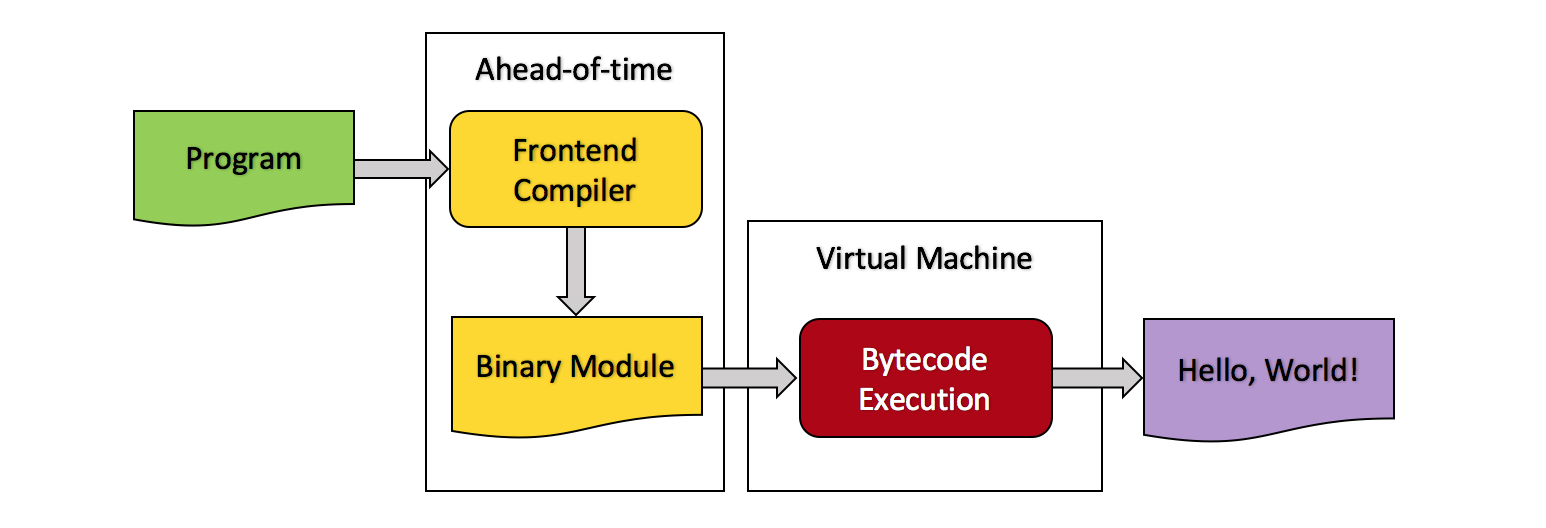
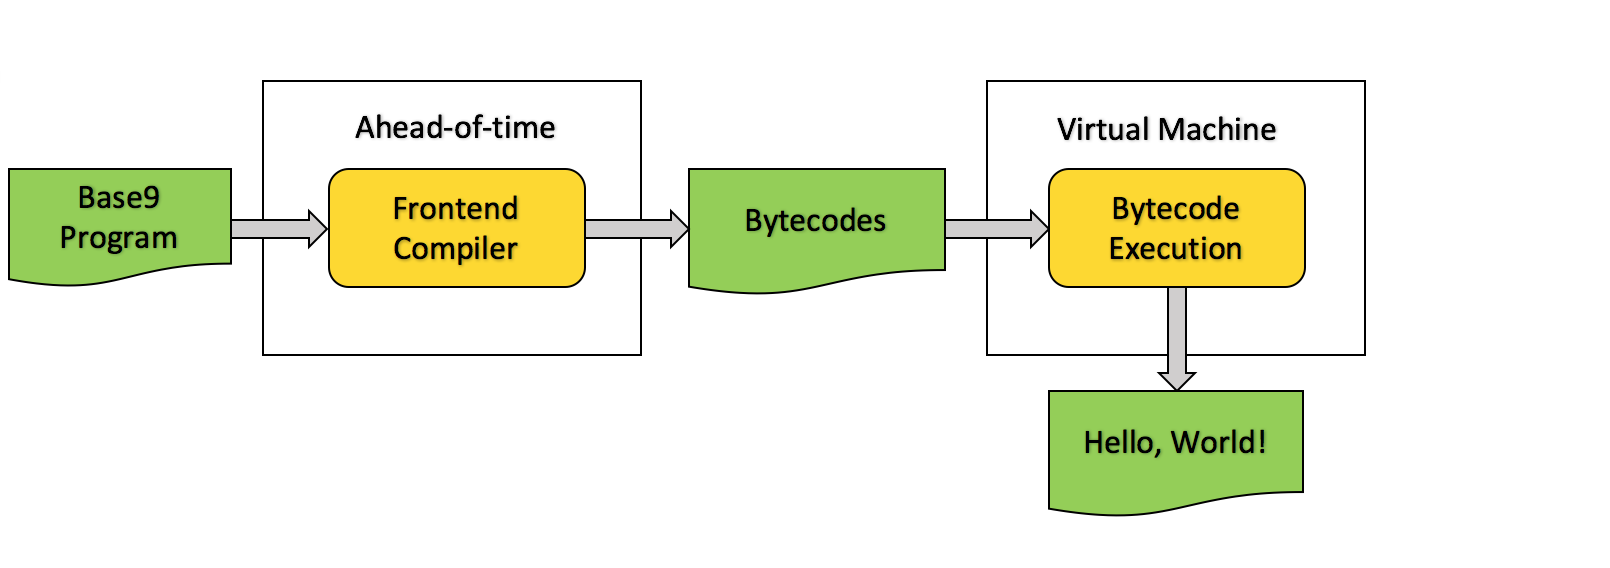
WIP
feedback from tuesday design meeting

diff --git a/docs/BuildARuntime.md b/docs/BuildARuntime.md
@@ -3,6 +3,9 @@ layout: devJourney
 title: Build your own Language Runtime
 ---
 
+* Table of Contents
+{:toc}
+
 ## Intro
 
 Welcome to the tutorial! If you're interested in building your own [language runtime], you've come to the right place. Base9 is a miniature language runtime, and thanks to [OMR] and [JitBuilder], it even has a [Just In Time (JIT) Compiler]! The goal of this tutorial is not to teach you how to build base9, but rather to pack your arsenal full of tools to build your own language runtime. We don't want to bog down the tutorial with information you don't need, so we'll keep things straightfoward, providing useful links/definitions along the way for you to peruse at your own convenience. If you'd like to get familiar with some of the vocabulary you'll encounter, feel free to visit the [tutorial dictionary].
@@ -27,32 +30,28 @@ Before getting started, you should [get yourself setup with base9]. We're going 
 Base9 has several major components that we'll discuss throughout the course of this tutorial. We'll provide insight about design decisions and implementation. Many of the design and implementation decisions were made based on the specific needs of the project. You may wish to deviate from these decisions along the way in order to best suit your own project.
 
 <figure class="image">
-  <figcaption>Base9 Overview</figcaption>
-  <img src="./assets/images/b9overview.png" width="100%"/>
+  <img src="./assets/images/b9architecture.png" width="100%"/>
 </figure>
 
-The above diagram details the two high-level components of the base9 architecture: the [ahead-of-time compilation] (AOT) and the [virtual machine] (VM) units. The AOT unit runs the frontend language through the frontend compiler (the base9 frontend language is a primitive subset of JavaScript). The frontend compiler outputs a binary module which is then passed to the deserializer. Here, the deserialized data is used to make a C++ data structure. That data structure will henceforth be referred to as the in-memory Module. It is named `Module` in the source code.
+The above diagram details the two high-level components of the base9 architecture: the [ahead-of-time compilation] (AOT) and the [virtual machine] (VM) units. The AOT unit runs the frontend language through the frontend compiler (the base9 frontend language is a primitive subset of JavaScript). The frontend compiler outputs the [bytecodes] to be consumed by the VM. The VM (or runtime unit) will either execute tbe bytecodes one by one using the [interpreter], or it can employ the [JIT compiler] to produce optimized native machine code.
 
 [ahead-of-time compilation]: ./Dictionary.md#ahead-of-time-compilation
 [virtual machine]: ./Dictionary.md#virtual-machine
-
-To summarize, the AOT unit is comprised of the frontend compiler, while the VM unit can be further broken down into the [interpreter] and the [JIT]. The in-memory Module is passed to the VM, which runs the [bytecodes] of the program.
-
-[interpreter]: ./Dictionary.md#interpreter
-[JIT]: ./Dictionary.md#jit-compiler
 [bytecodes]: ./Dictionary.md#bytecode
+[interpreter]: ./Dictionary.md#interpreter
+[JIT compiler]: ./Dictionary.md#jit-compiler
 
 ```
 
-```
 
-<center> *** </center>
-
-```
 
 ```
 
 ## Base9 Frontend
+
+<figure class="image">
+  <img src="./assets/images/b9frontend.png" width="100%"/>
+</figure>
 
 ### Frontend Language
 
@@ -97,18 +96,19 @@ The above command will run the frontend compiler on `test/hello.src` and output 
 
 ```
 
-```
 
-<center> *** </center>
-
-```
 
 ```
 
 ## Base9 Backend
 
 <figure class="image">
-  <figcaption>VM Design</figcaption>
+  <img src="./assets/images/b9backend.png" width="100%"/>
+</figure>
+
+Let's explore the VM design in greater detail.
+
+<figure class="image">
   <img src="./assets/images/VMDesign.png" width="100%"/>
 </figure>
 
@@ -264,11 +264,7 @@ Hopefully the pseudocode has convinced you that the interpreter is actually supe
 
 ```
 
-```
 
-<center> *** </center>
-
-```
 
 ```
 
@@ -563,11 +559,7 @@ To conclude this section, let's briefly walk over the components we've covered t
 
 ```
 
-```
 
-<center> *** </center>
-
-```
 
 ```
 
@@ -598,11 +590,7 @@ The above diagram depicts the base9 components in yellow. These are the componen
 
 ```
 
-```
 
-<center> *** </center>
-
-```
 
 ```
 

diff --git a/docs/AboutBase9.md b/docs/AboutBase9.md
@@ -14,29 +14,8 @@ Base9 is an educational [language runtime] and JavaScript [interpreter]. It's fr
 [JIT compiler]: ./Dictionary.md#jit-compiler
 [JitBuilder]: https://developer.ibm.com/open/2016/07/19/jitbuilder-library-and-eclipse-omr-just-in-time-compilers-made-easy/
 
-<figure class="image">
-  <figcaption>Base9 Architecture</figcaption>
-  <img src="./assets/images/b9architecture.png" width="100%"/>
-</figure>
-
-#### The Ahead of Time (AOT) Compilation Unit
-
-The AOT compilation unit converts the base9 source code into a binary module containing bytecodes and metadata about the program. This module will be used as input to the VM at runtime.
-
-#### The Virtual Machine / Runtime Unit
-At runtime, the VM deserializes the binary module and converts it to an in memory data structure. We will refer to this data structure, henceforth, as the "in memory module". The bytecodes stored by the in memory module are then either interpreted or JIT compiled at runtime.
-
-```
-
-```
-
-<center> *** </center>
-
-```
-
-```
-
-Interested in building language runtimes? Check out our [Build your own Runtime] tutorial to learn how! And be sure to visit our [documentation page] for a complete listing of our docs and tutorials.
+Interested in building language runtimes? Check out our [Build your own Runtime] tutorial to learn how! Or if you want to learn more about base9, visit the [base9 overview section] of the tutorial. And be sure to visit our [documentation page] for a complete listing of our docs and tutorials.
 
 [Build your own Runtime]: ./BuildARuntime.md
+[base9 overview section]: ./BuildARuntime.md#base9-overview
 [documentation page]: ./Documentation.md
